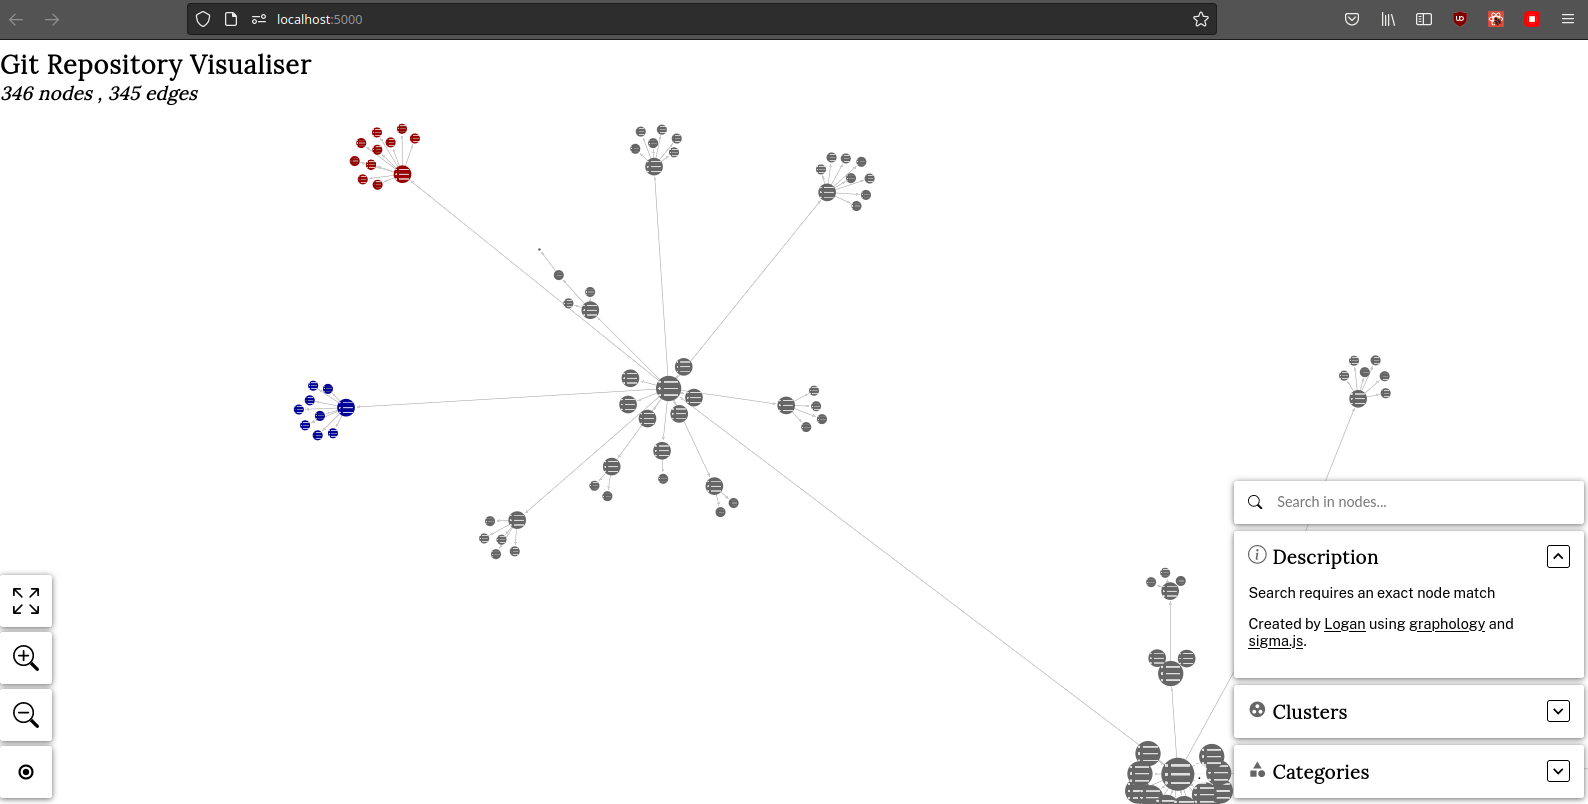
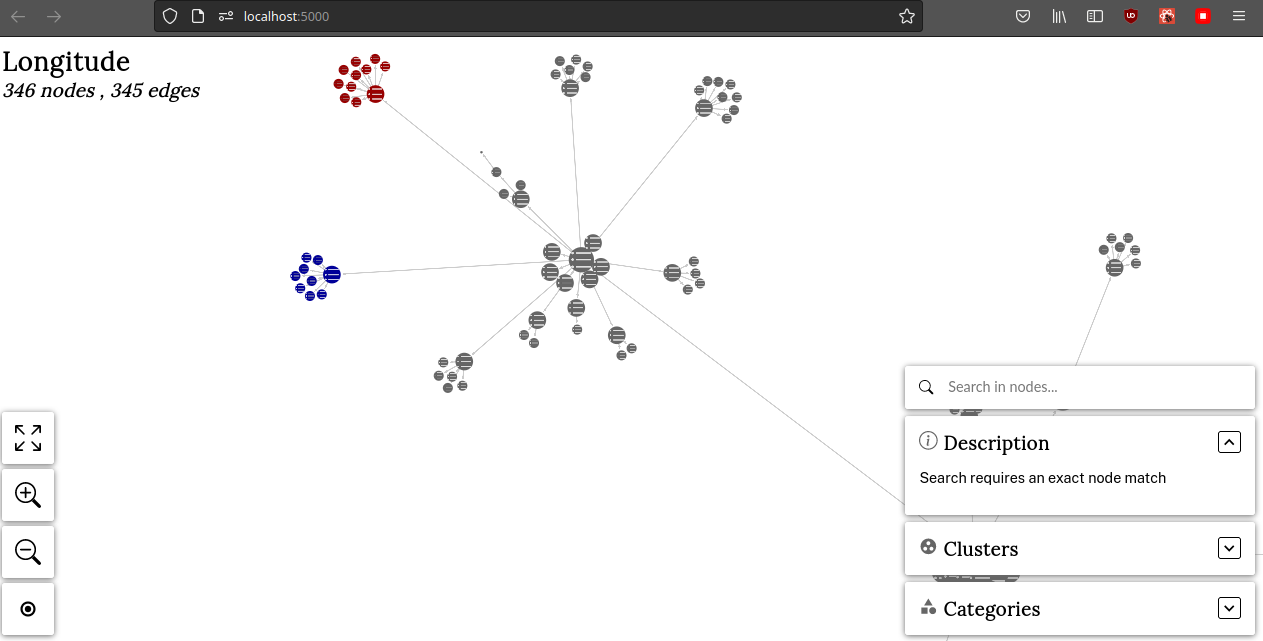
Remove branding

diff --git a/visualiser/src/views/DescriptionPanel.tsx b/visualiser/src/views/DescriptionPanel.tsx
@@ -18,9 +18,7 @@ const DescriptionPanel: FC = () => {
           <li>Search requires an exact node match</li> 
         </ul>
       </p>
-      <p>
-        Created by <a href="https://isthisit.nz">Logan</a> using <a href="https://graphology.github.io/">graphology</a> and <a href="https://github.com/jacomyal/sigma.js">sigma.js</a>.
-      </p>
+
     </Panel>
   );
 };

diff --git a/visualiser/src/views/GraphTitle.tsx b/visualiser/src/views/GraphTitle.tsx
@@ -26,7 +26,7 @@ const GraphTitle: FC<{ filters: FiltersState }> = ({ filters }) => {
 
   return (
     <div className="graph-title">
-      <h1>Git Repository Visualiser</h1>
+      <h1>Longitude</h1>
       <h2>
         <i>
           {graph.order} node{graph.order > 1 ? "s" : ""}{" "}
